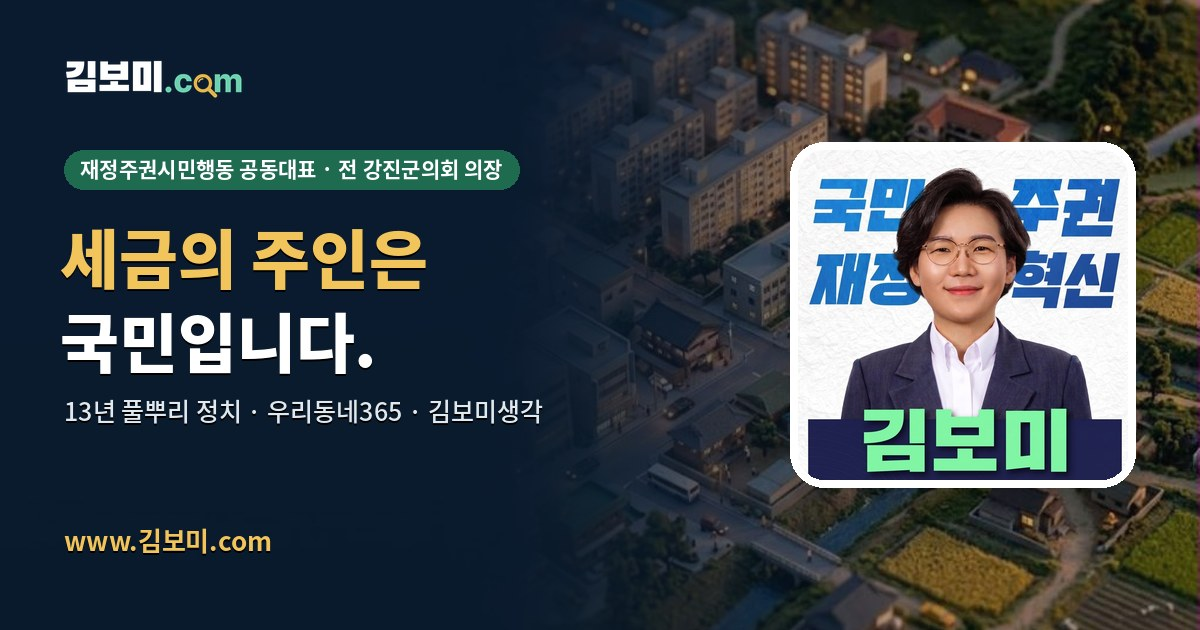
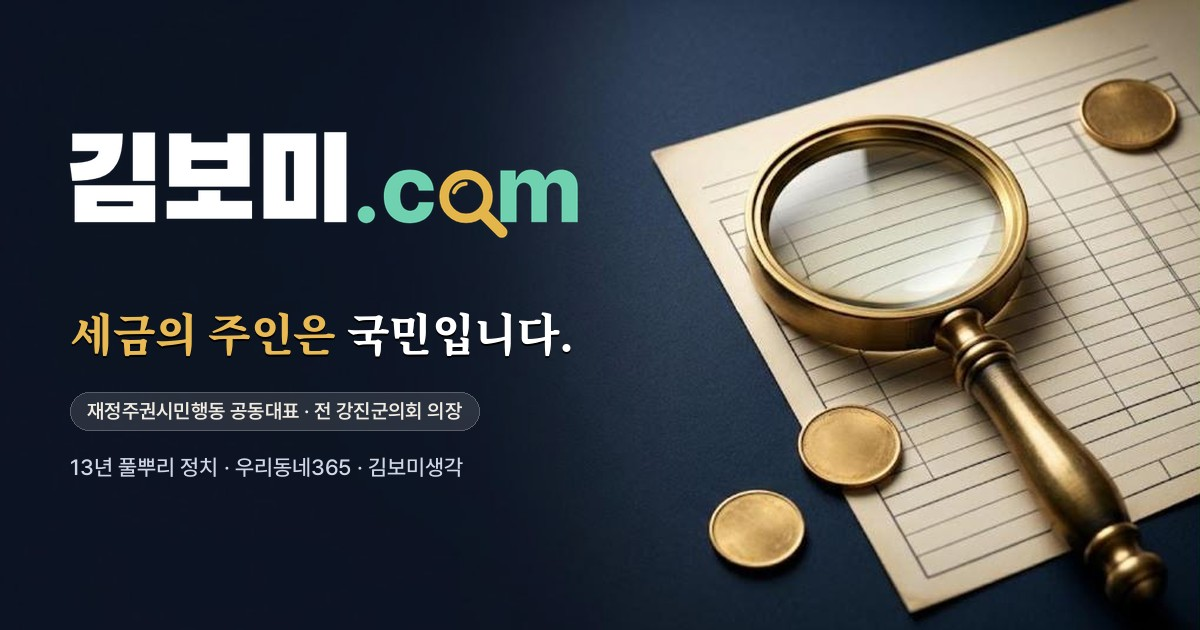
링크 미리보기 교체: 3번 정물 시안 재생성, 김보미.com 로고를 가장 크게
Claude-Session: https://claude.ai/code/session_01E5k2hPPpDHzuq6RbcuZc7z

diff --git a/narasalim.html b/narasalim.html
@@ -20,7 +20,7 @@
 <meta property="og:site_name" content="우리동네365">
 <meta property="og:locale" content="ko_KR">
 <meta property="og:image" content="https://www.xn--4k0b53xuva.com/og-ud365.jpg?v=20261107">
-<meta property="og:image:secure_url" content="https://xn--4k0b53xuva.com/og.jpg?v=20261107">
+<meta property="og:image:secure_url" content="https://xn--4k0b53xuva.com/og.jpg?v=20261108">
 <meta property="og:image:type" content="image/jpeg">
 <meta property="og:image:width" content="1200">
 <meta property="og:image:height" content="630">
@@ -28,15 +28,15 @@
 <meta name="twitter:card" content="summary_large_image">
 <meta name="twitter:title" content="우리동네365 — 무엇이 궁금하신가요?">
 <meta name="twitter:description" content="키워드 하나로 정책을 알고·배우고·제안하며, 혈세는 시민이 직접 감시·견제하는 국민주권실행 플랫폼.">
-<meta name="twitter:image" content="https://xn--4k0b53xuva.com/og.jpg?v=20261107">
+<meta name="twitter:image" content="https://xn--4k0b53xuva.com/og.jpg?v=20261108">
 <script type="application/ld+json">
-{"@context":"https://schema.org","@type":"WebSite","name":"우리동네365","alternateName":"김보미 시민주도 국민주권실행 플랫폼","url":"https://xn--4k0b53xuva.com/","inLanguage":"ko-KR","description":"전국 243개 지방자치단체의 세입결산규모·재정자립도(지방재정365 공시)·종합청렴도(국민권익위)·금고 약정이자율(행정안전부)을 한 화면에서 확인하는 시민주도 국민주권실행 플랫폼.","publisher":{"@type":"Organization","name":"우리동네365","founder":{"@type":"Person","name":"김보미"},"logo":{"@type":"ImageObject","url":"https://xn--4k0b53xuva.com/og.jpg?v=20261107"}},"potentialAction":{"@type":"SearchAction","target":"https://xn--4k0b53xuva.com/?q={search_term_string}","query-input":"required name=search_term_string"}}
+{"@context":"https://schema.org","@type":"WebSite","name":"우리동네365","alternateName":"김보미 시민주도 국민주권실행 플랫폼","url":"https://xn--4k0b53xuva.com/","inLanguage":"ko-KR","description":"전국 243개 지방자치단체의 세입결산규모·재정자립도(지방재정365 공시)·종합청렴도(국민권익위)·금고 약정이자율(행정안전부)을 한 화면에서 확인하는 시민주도 국민주권실행 플랫폼.","publisher":{"@type":"Organization","name":"우리동네365","founder":{"@type":"Person","name":"김보미"},"logo":{"@type":"ImageObject","url":"https://xn--4k0b53xuva.com/og.jpg?v=20261108"}},"potentialAction":{"@type":"SearchAction","target":"https://xn--4k0b53xuva.com/?q={search_term_string}","query-input":"required name=search_term_string"}}
 </script>
 <script type="application/ld+json">
 {"@context":"https://schema.org","@type":"Person","name":"김보미","alternateName":["Kim Bomi","강진 김보미","강진군 김보미","최연소 기초의회 의장 김보미"],"url":"https://xn--4k0b53xuva.com/","image":"https://xn--4k0b53xuva.com/about.jpg","jobTitle":["정치인","시민주도 국민주권실행 플랫폼 '우리동네365' 운영자"],"description":"1989년 12월 4일생. 전 제8·9대 전라남도 강진군의회 의원, 제9대 전반기 강진군의회 의장(만 32세, 전국 최연소 기초의회 의장·강진군의회 최초 여성 의장). 2018년 28세에 4개 군 총합 최다득표로 비례대표 1순위 당선, 강진군의회 입성(지역 최초 20대 여성 청년 의원). 2022년 재선 때는 가·나 선거구를 통틀어 최다득표. 8년 연속 매년 12월 의정활동비·월정수당 전액을 관내 지역아동센터에 기부. 2026년 제9회 전국동시지방선거 더불어민주당 강진군수 예비후보(당내 경선 참여). 시민주도 국민주권실행 플랫폼 '우리동네365'(김보미.com) 운영자.","gender":"Female","nationality":"대한민국","birthDate":"1989-12-04","alumniOf":[{"@type":"EducationalOrganization","name":"강진고등학교"},{"@type":"EducationalOrganization","name":"전남대학교"}],"affiliation":{"@type":"Organization","name":"더불어민주당"},"memberOf":[{"@type":"Organization","name":"더불어민주당 참좋은지방정부위원회"},{"@type":"Organization","name":"더민주전국혁신회의"}],"award":["전국 최연소 기초의회 의장(만 32세, 2022)","강진군의회 최초 여성 의장","UN국제부패방지의 날 기념조직위원회 등 300여 단체 '부패방지청렴인 표창' (2026.1.29)"],"hasOccupation":{"@type":"Occupation","name":"정치인","occupationLocation":{"@type":"AdministrativeArea","name":"전라남도 강진군"}},"knowsAbout":["지방재정","예산 감시","재정자립도","재정자주도","종합청렴도","재정주권","시민운동","시민주도 국민주권실행","주민참여예산","청년정치","여성정치","기본소득","강진 기본소득","강진 365 대시보드"],"sameAs":["https://www.xn--4k0b53xuva.com/","https://www.xn--p89av0gr2mutka661e.kr/"]}
 </script>
 <script type="application/ld+json">
-{"@context":"https://schema.org","@type":"Organization","name":"우리동네365","alternateName":["김보미.com","시민주도 국민주권실행 플랫폼","시민주도 국민주권실행 플랫폼"],"url":"https://xn--4k0b53xuva.com/","logo":"https://xn--4k0b53xuva.com/og.jpg?v=20261107","image":"https://xn--4k0b53xuva.com/og.jpg?v=20261107","description":"전국 243개 지방자치단체 재정을 한 화면에 펼쳐 시민이 직접 감시·시정요구하는 시민주도 국민주권실행 플랫폼.","founder":{"@type":"Person","name":"김보미"},"foundingDate":"2026","areaServed":{"@type":"Country","name":"대한민국"},"slogan":"세금의 주인은 국민입니다. 재정의 주인도 국민입니다."}
+{"@context":"https://schema.org","@type":"Organization","name":"우리동네365","alternateName":["김보미.com","시민주도 국민주권실행 플랫폼","시민주도 국민주권실행 플랫폼"],"url":"https://xn--4k0b53xuva.com/","logo":"https://xn--4k0b53xuva.com/og.jpg?v=20261108","image":"https://xn--4k0b53xuva.com/og.jpg?v=20261108","description":"전국 243개 지방자치단체 재정을 한 화면에 펼쳐 시민이 직접 감시·시정요구하는 시민주도 국민주권실행 플랫폼.","founder":{"@type":"Person","name":"김보미"},"foundingDate":"2026","areaServed":{"@type":"Country","name":"대한민국"},"slogan":"세금의 주인은 국민입니다. 재정의 주인도 국민입니다."}
 </script>
 <script type="application/ld+json">
 {"@context":"https://schema.org","@type":"FAQPage","mainEntity":[{"@type":"Question","name":"우리 동네 재정자립도는 어떻게 확인하나요?","acceptedAnswer":{"@type":"Answer","text":"우리동네365(김보미.com) 상단의 '우리 동네 3초 진단'에서 시·도와 시·군·구를 선택하면 지방재정365 공시 기준 세입결산규모·재정자립도·자체수입과 국민권익위 종합청렴도, 행정안전부 금고 약정이자율이 표시됩니다. 공식 출처를 확보하지 못한 지표(집행률·채무비율 등)는 수치를 만들어내지 않고 '—'로 비워 둡니다."}},{"@type":"Question","name":"지방자치단체 금고 약정이자율은 어디서 볼 수 있나요?","acceptedAnswer":{"@type":"Answer","text":"행정안전부는 2026.1.27 전국 243개 지방정부 금고 이자율을 지방재정365(lofin365.go.kr)에 통합공개했습니다. 본 사이트의 '데이터 시각화' 탭과 '종합 진단' 정부공시 확장 블록에서 전국 평균 2.53%·광역 최고 인천 4.57%·기초 최고 인천 서구 4.82%·기초 최저 경기 양평군 1.78% 등을 한눈에 비교할 수 있습니다."}},{"@type":"Question","name":"243개 지자체 종합청렴도 등급은 어떻게 공개되나요?","acceptedAnswer":{"@type":"Answer","text":"국민권익위원회가 매년 발표하는 종합청렴도 평가 결과(공공데이터포털 15083994)를 본 사이트에 그대로 연동했습니다. 우리 동네를 선택하면 1~5등급(A~E)이 진단 카드에 표시됩니다."}},{"@type":"Question","name":"수의계약·일감 몰아주기는 어떻게 감시하나요?","acceptedAnswer":{"@type":"Answer","text":"'계약·이상신호' 탭에서 시·군·구를 선택하면 최근 계약 5건·체결방식 분포(수의계약 vs 경쟁입찰)·유형별 분포(공사·용역·물품) 그래프와 5가지 위험패턴(자전거래·단가부풀리기·일감몰아주기·수의계약 과다·집행지연) 자동 탐지 결과가 표시됩니다."}},{"@type":"Question","name":"의회에 시정을 어떻게 요구하나요?","acceptedAnswer":{"@type":"Answer","text":"하단 '시민 감시·참여' 섹션에서 우리 지역을 선택하고 핵심 의견을 작성한 뒤 AI 다듬기 → 시정요구 메일 작성창을 열면 해당 시·군·구 의회로 직접 전달할 수 있습니다. 의회는 예산 심의·결산 승인·행정사무감사·조례 제·개정·시정질문 등의 권한으로 시민 의견을 공식 안건으로 다룰 수 있습니다."}},{"@type":"Question","name":"김보미는 누구인가요?","acceptedAnswer":{"@type":"Answer","text":"1989년 12월 4일생. 제8·9대 전라남도 강진군의회 의원, 제9대 전반기 강진군의회 의장(만 32세, 전국 최연소 기초의회 의장·강진군의회 최초 여성 의장). 2018년 28세에 4개 군 총합 최다득표로 비례대표 1순위 당선, 강진군의회 입성(지역 최초 20대 여성 청년 의원). 2022년 재선 때는 가·나 선거구를 통틀어 최다득표. 8년 연속 매년 12월 의정활동비·월정수당 전액을 관내 지역아동센터에 기부. 2026년 제9회 전국동시지방선거 더불어민주당 강진군수 예비후보(당내 경선 참여). 시민주도 국민주권실행 플랫폼 '우리동네365' 운영자."}}]}
@@ -48,7 +48,7 @@
 {"@context":"https://schema.org","@type":"GovernmentService","name":"우리동네365 — 시민주도 국민주권실행 플랫폼","serviceType":"공공재정 정보 공개·시민감시","provider":{"@type":"Organization","name":"우리동네365","founder":{"@type":"Person","name":"김보미"},"url":"https://xn--4k0b53xuva.com/"},"areaServed":{"@type":"Country","name":"대한민국"},"audience":{"@type":"Audience","audienceType":"대한민국 국민"},"availableChannel":{"@type":"ServiceChannel","serviceUrl":"https://xn--4k0b53xuva.com/","availableLanguage":["ko-KR","en"]},"category":["지방재정 공개","청렴도 공개","수의계약 감시","예산 시민감시","주민참여예산"]}
 </script>
 <script type="application/ld+json">
-{"@context":"https://schema.org","@type":"NewsArticle","headline":"행안부, 전국 243개 지방정부 금고 이자율 통합공개 (2026.1.27) — 우리동네365 전수 반영","datePublished":"2026-01-27","dateModified":"2026-06-01","author":{"@type":"Person","name":"김보미"},"publisher":{"@type":"Organization","name":"우리동네365","logo":{"@type":"ImageObject","url":"https://xn--4k0b53xuva.com/og.jpg?v=20261107"}},"image":"https://xn--4k0b53xuva.com/og.jpg?v=20261107","mainEntityOfPage":"https://xn--4k0b53xuva.com/","description":"전국 평균 2.53%·광역 최고 인천 4.57%·광역 최저 경북 2.15%·기초 최고 인천 서구 4.82%·기초 최저 경기 양평군 1.78%. 전라남도 강진군 2.04%(전남 최저). 본 사이트가 행안부 공식 hwpx 보도자료를 파싱해 243개 지자체 전수를 그대로 반영했습니다."}
+{"@context":"https://schema.org","@type":"NewsArticle","headline":"행안부, 전국 243개 지방정부 금고 이자율 통합공개 (2026.1.27) — 우리동네365 전수 반영","datePublished":"2026-01-27","dateModified":"2026-06-01","author":{"@type":"Person","name":"김보미"},"publisher":{"@type":"Organization","name":"우리동네365","logo":{"@type":"ImageObject","url":"https://xn--4k0b53xuva.com/og.jpg?v=20261108"}},"image":"https://xn--4k0b53xuva.com/og.jpg?v=20261108","mainEntityOfPage":"https://xn--4k0b53xuva.com/","description":"전국 평균 2.53%·광역 최고 인천 4.57%·광역 최저 경북 2.15%·기초 최고 인천 서구 4.82%·기초 최저 경기 양평군 1.78%. 전라남도 강진군 2.04%(전남 최저). 본 사이트가 행안부 공식 hwpx 보도자료를 파싱해 243개 지자체 전수를 그대로 반영했습니다."}
 </script>
 <link rel="alternate" hreflang="ko" href="https://xn--4k0b53xuva.com/">
 <link rel="alternate" hreflang="x-default" href="https://xn--4k0b53xuva.com/">

diff --git a/report.html b/report.html
@@ -10,9 +10,9 @@
 <meta property="og:description" content="철저한 비밀 보장. 예산 낭비·수의계약 의혹·부당한 압박, 주저 없이 알려주세요. 중앙정부 62개 부처와 지방정부 243개 시·군·구의 예산·집행·계약을 한눈에.">
 <meta property="og:url" content="https://www.xn--4k0b53xuva.com/report.html">
 <link rel="canonical" href="https://www.xn--4k0b53xuva.com/report.html">
-<meta property="og:image" content="https://www.xn--4k0b53xuva.com/og.jpg?v=20261107">
+<meta property="og:image" content="https://www.xn--4k0b53xuva.com/og.jpg?v=20261108">
 <meta property="og:image:width" content="1200"><meta property="og:image:height" content="630">
-<meta name="twitter:card" content="summary_large_image"><meta name="twitter:image" content="https://www.xn--4k0b53xuva.com/og.jpg?v=20261107">
+<meta name="twitter:card" content="summary_large_image"><meta name="twitter:image" content="https://www.xn--4k0b53xuva.com/og.jpg?v=20261108">
 <link rel="stylesheet" href="https://cdn.jsdelivr.net/gh/orioncactus/pretendard@v1.3.9/dist/web/variable/pretendardvariable-dynamic-subset.min.css"><style>:where(button,input,select,textarea){font-family:inherit}:where(h1,h2,h3,h4){text-wrap:balance;word-break:keep-all}:where(p,li,dd){text-wrap:pretty}</style>
 <link rel="preconnect" href="https://fonts.googleapis.com"><link rel="preconnect" href="https://fonts.gstatic.com" crossorigin>
 <link href="https://fonts.googleapis.com/css2?family=Noto+Serif+KR:wght@600;700;900&display=swap" rel="stylesheet">

diff --git a/vision.html b/vision.html
@@ -10,10 +10,10 @@
 <meta property="og:description" content="밀실이 아니라 공개된 글로. 김보미의 정치개혁 제안과 현안 입장 모음. 중앙정부 62개 부처와 지방정부 243개 시·군·구의 예산·집행·계약을 한눈에.">
 <meta property="og:url" content="https://www.xn--4k0b53xuva.com/vision.html">
 <link rel="canonical" href="https://www.xn--4k0b53xuva.com/vision.html">
-<meta property="og:image" content="https://www.xn--4k0b53xuva.com/og.jpg?v=20261107">
+<meta property="og:image" content="https://www.xn--4k0b53xuva.com/og.jpg?v=20261108">
 <meta property="og:image:width" content="1200"><meta property="og:image:height" content="630">
 <meta name="twitter:card" content="summary_large_image">
-<meta name="twitter:image" content="https://www.xn--4k0b53xuva.com/og.jpg?v=20261107">
+<meta name="twitter:image" content="https://www.xn--4k0b53xuva.com/og.jpg?v=20261108">
 
 <link rel="preconnect" href="https://fonts.googleapis.com"><link rel="preconnect" href="https://fonts.gstatic.com" crossorigin>
 <link rel="stylesheet" href="https://cdn.jsdelivr.net/gh/orioncactus/pretendard@v1.3.9/dist/web/variable/pretendardvariable-dynamic-subset.min.css"><style>:where(button,input,select,textarea){font-family:inherit}:where(h1,h2,h3,h4){text-wrap:balance;word-break:keep-all}:where(p,li,dd){text-wrap:pretty}</style>

diff --git a/pledge.html b/pledge.html
@@ -11,7 +11,7 @@
 <meta property="og:title" content="재정주권시민행동 함께하기 — 김보미 공동대표">
 <meta property="og:description" content="내 돈은 내 권리다. 예산·결산을 시민이 직접 감시하는 「재정주권시민행동」에 회원으로, 후원으로 함께해 주세요. 중앙정부 62개 부처와 지방정부 243개 시·군·구의 예산·집행·계약을 한눈에.">
 <meta property="og:url" content="https://www.xn--4k0b53xuva.com/pledge.html">
-<meta property="og:image" content="https://www.xn--4k0b53xuva.com/og.jpg?v=20261107">
+<meta property="og:image" content="https://www.xn--4k0b53xuva.com/og.jpg?v=20261108">
 <meta name="twitter:card" content="summary_large_image">
 <link rel="stylesheet" href="https://cdn.jsdelivr.net/gh/orioncactus/pretendard@v1.3.9/dist/web/variable/pretendardvariable-dynamic-subset.min.css"><style>:where(button,input,select,textarea){font-family:inherit}:where(h1,h2,h3,h4){text-wrap:balance;word-break:keep-all}:where(p,li,dd){text-wrap:pretty}</style>
 <link rel="preconnect" href="https://fonts.googleapis.com"><link rel="preconnect" href="https://fonts.gstatic.com" crossorigin>

diff --git a/전남7개군_계약현황_총정리_1.html b/전남7개군_계약현황_총정리_1.html
@@ -9,7 +9,7 @@
 <meta property="og:title" content="전남 7개군 계약현황 총정리 (2018.7 ~ 2026.8)">
 <meta property="og:description" content="강진·장흥·보성·고흥·진도·완도·해남 7개 군의 2018년 7월~2026년 8월 계약현황을 한눈에 정리한 시민 감시 자료.">
 <meta property="og:url" content="https://www.xn--4k0b53xuva.com/%EC%A0%84%EB%82%A87%EA%B0%9C%EA%B5%B0_%EA%B3%84%EC%95%BD%ED%98%84%ED%99%A9_%EC%B4%9D%EC%A0%95%EB%A6%AC_1.html">
-<meta property="og:image" content="https://www.xn--4k0b53xuva.com/og.jpg?v=20261107">
+<meta property="og:image" content="https://www.xn--4k0b53xuva.com/og.jpg?v=20261108">
 <title>전남 7개군 계약현황 총정리 (2018.7 ~ 2026.8) — 강진·장흥·보성·고흥·진도·완도·해남</title>
 <link rel="stylesheet" href="https://cdn.jsdelivr.net/gh/orioncactus/pretendard@v1.3.9/dist/web/variable/pretendardvariable-dynamic-subset.min.css"><style>:where(button,input,select,textarea){font-family:inherit}:where(h1,h2,h3,h4){text-wrap:balance;word-break:keep-all}:where(p,li,dd){text-wrap:pretty}</style>
 <style>

diff --git a/press.html b/press.html
@@ -10,7 +10,7 @@
 <meta property="og:title" content="언론보도·영상 아카이브 — 김보미">
 <meta property="og:description" content="김보미 관련 기사·인터뷰·방송·유튜브 아카이브(최신순). 중앙정부 62개 부처와 지방정부 243개 시·군·구의 예산·집행·계약을 한눈에.">
 <meta property="og:url" content="https://www.xn--4k0b53xuva.com/press.html">
-<meta property="og:image" content="https://www.xn--4k0b53xuva.com/og.jpg?v=20261107">
+<meta property="og:image" content="https://www.xn--4k0b53xuva.com/og.jpg?v=20261108">
 
 <link rel="preconnect" href="https://fonts.googleapis.com"><link rel="preconnect" href="https://fonts.gstatic.com" crossorigin>
 <link rel="stylesheet" href="https://cdn.jsdelivr.net/gh/orioncactus/pretendard@v1.3.9/dist/web/variable/pretendardvariable-dynamic-subset.min.css"><style>:where(button,input,select,textarea){font-family:inherit}:where(h1,h2,h3,h4){text-wrap:balance;word-break:keep-all}:where(p,li,dd){text-wrap:pretty}</style>

diff --git a/almedalen.html b/almedalen.html
@@ -8,7 +8,7 @@
 <meta name="description" content="Kim Bomi (Democratic Party of Korea) — Almedalen 2026 town-square address. Svenska · English · 한국어.">
 <meta property="og:title" content="Kim Bomi · Almedalen 2026 — 광장연설">
 <meta property="og:description" content="Talet i sin helhet — Svenska · English · 한국어">
-<meta property="og:image" content="https://www.xn--4k0b53xuva.com/og.jpg?v=20261107">
+<meta property="og:image" content="https://www.xn--4k0b53xuva.com/og.jpg?v=20261108">
 <link rel="stylesheet" href="https://cdn.jsdelivr.net/gh/orioncactus/pretendard@v1.3.9/dist/web/variable/pretendardvariable-dynamic-subset.min.css"><style>:where(button,input,select,textarea){font-family:inherit}:where(h1,h2,h3,h4){text-wrap:balance;word-break:keep-all}:where(p,li,dd){text-wrap:pretty}</style>
 <style>html,body{margin:0;min-height:100%;background:#06121f;
 background:radial-gradient(1200px 600px at 50% -10%,#0e2c40,#06121f)}</style>

diff --git a/live.html b/live.html
@@ -10,7 +10,7 @@
 <meta property="og:title" content="정책 실시간 — 정부·국회·청년정책 | 김보미">
 <meta property="og:description" content="정부·국회 발표와 청년정책을 공공 API 원자료 그대로, 원문 링크와 함께.">
 <meta property="og:url" content="https://www.xn--4k0b53xuva.com/live.html">
-<meta property="og:image" content="https://www.xn--4k0b53xuva.com/og.jpg?v=20261107">
+<meta property="og:image" content="https://www.xn--4k0b53xuva.com/og.jpg?v=20261108">
 
 <link rel="preconnect" href="https://fonts.googleapis.com"><link rel="preconnect" href="https://fonts.gstatic.com" crossorigin>
 <link rel="stylesheet" href="https://cdn.jsdelivr.net/gh/orioncactus/pretendard@v1.3.9/dist/web/variable/pretendardvariable-dynamic-subset.min.css"><style>:where(button,input,select,textarea){font-family:inherit}:where(h1,h2,h3,h4){text-wrap:balance;word-break:keep-all}:where(p,li,dd){text-wrap:pretty}</style>

diff --git a/privacy.html b/privacy.html
@@ -6,7 +6,7 @@
 <title>개인정보처리방침 — 김보미.com</title>
 <meta property="og:title" content="개인정보처리방침 — 김보미.com">
 <meta property="og:description" content="김보미.com이 수집하는 개인정보의 항목·목적·보유기간·국외이전·정보주체 권리 안내입니다.">
-<meta property="og:image" content="https://www.xn--4k0b53xuva.com/og.jpg?v=20261107">
+<meta property="og:image" content="https://www.xn--4k0b53xuva.com/og.jpg?v=20261108">
 <meta name="description" content="김보미.com 개인정보처리방침 — 수집 항목, 이용 목적, 보유기간, 처리위탁·국외이전, 정보주체의 권리">
 <link rel="canonical" href="https://www.xn--4k0b53xuva.com/privacy.html">
 <meta name="robots" content="noindex,follow">
